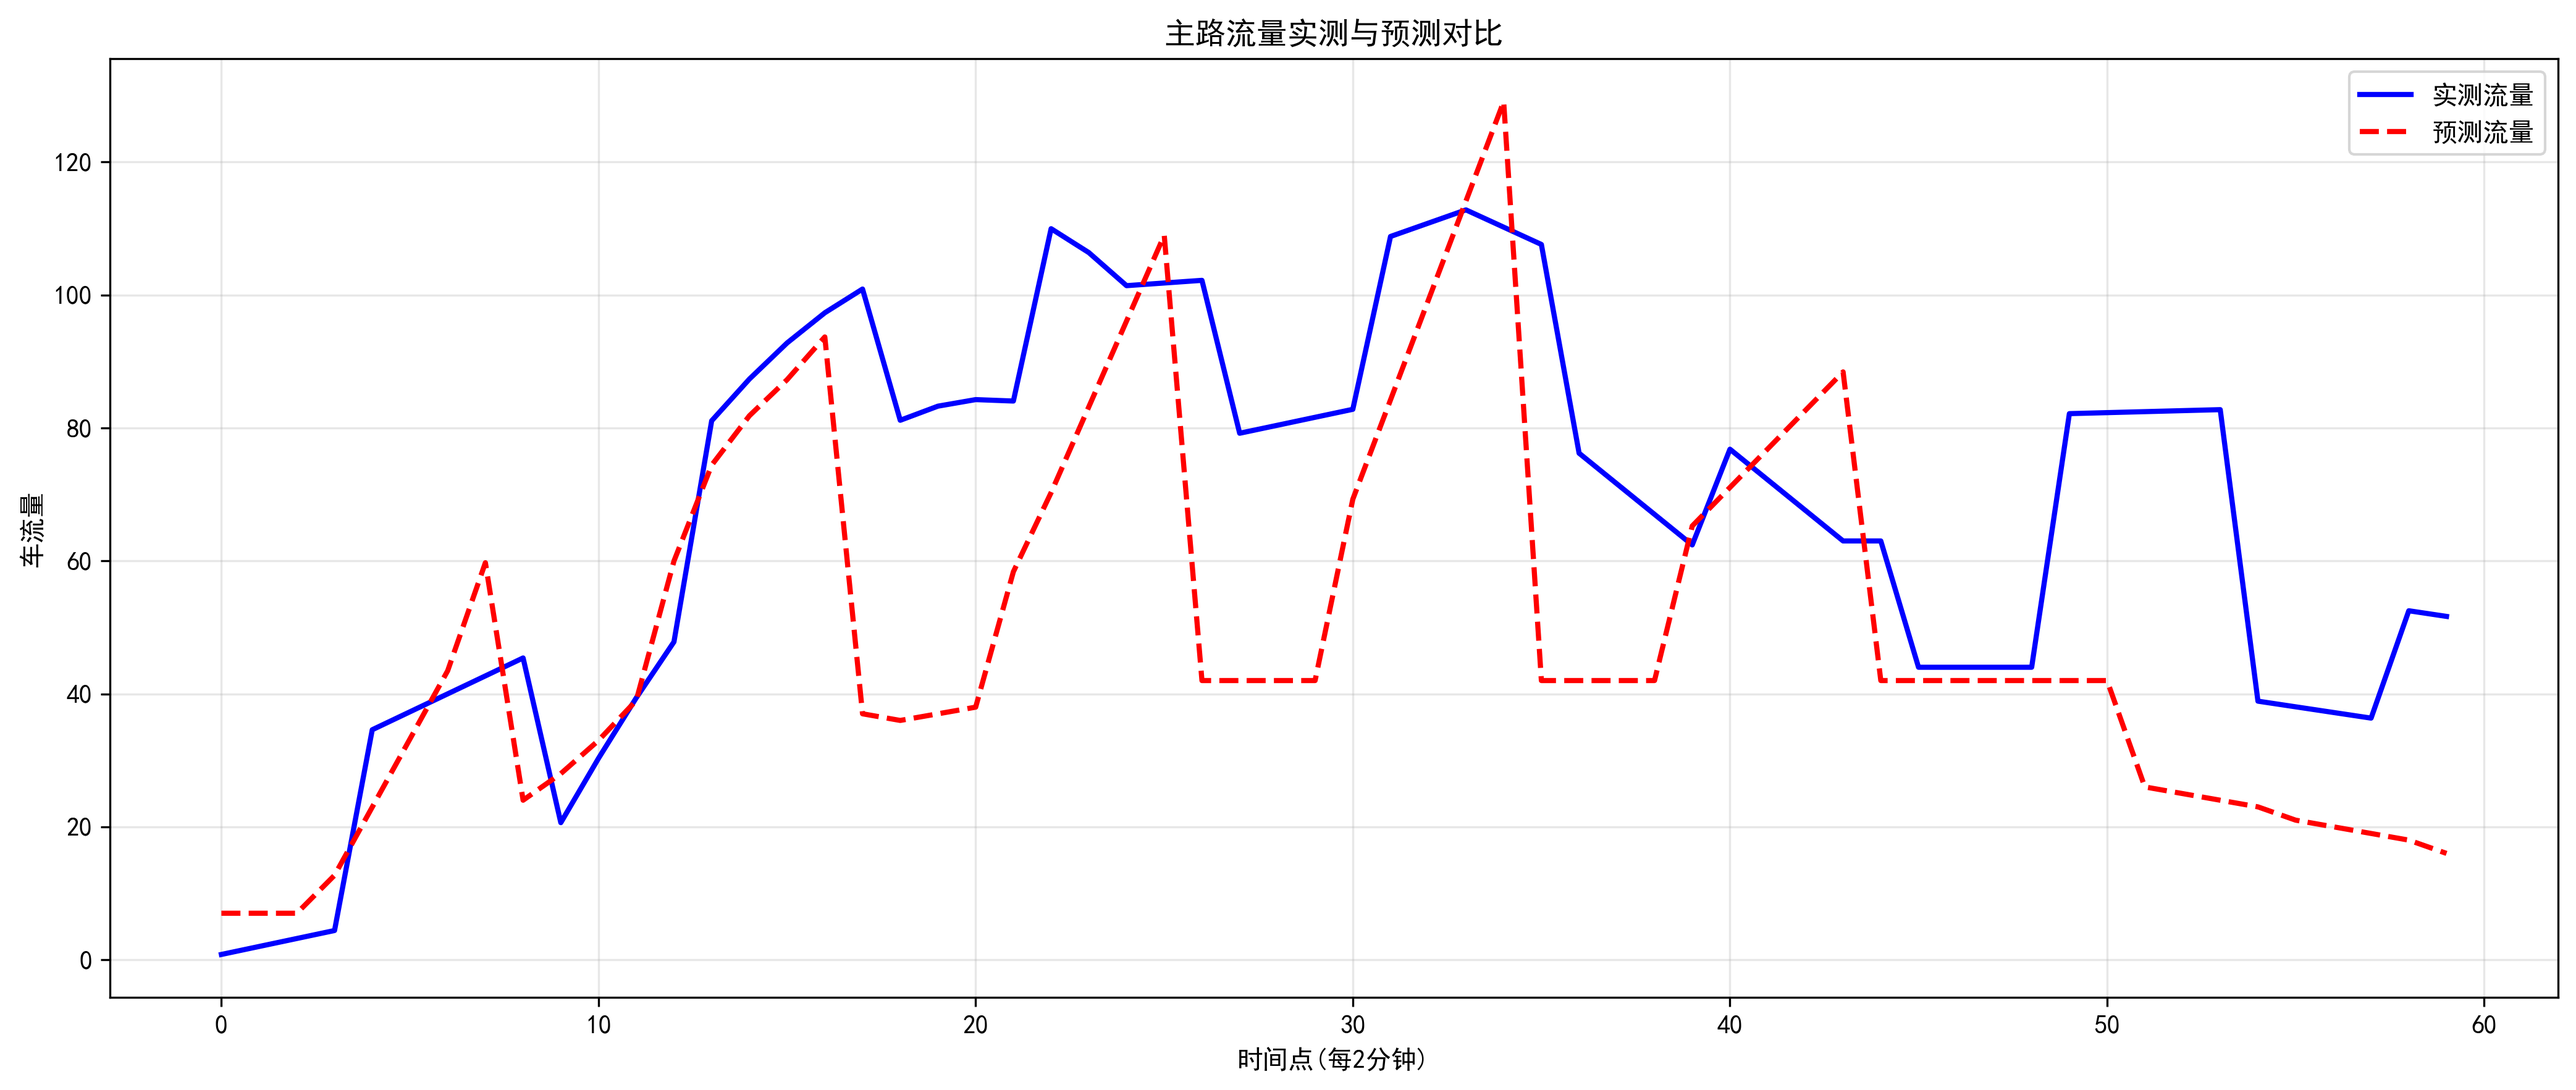
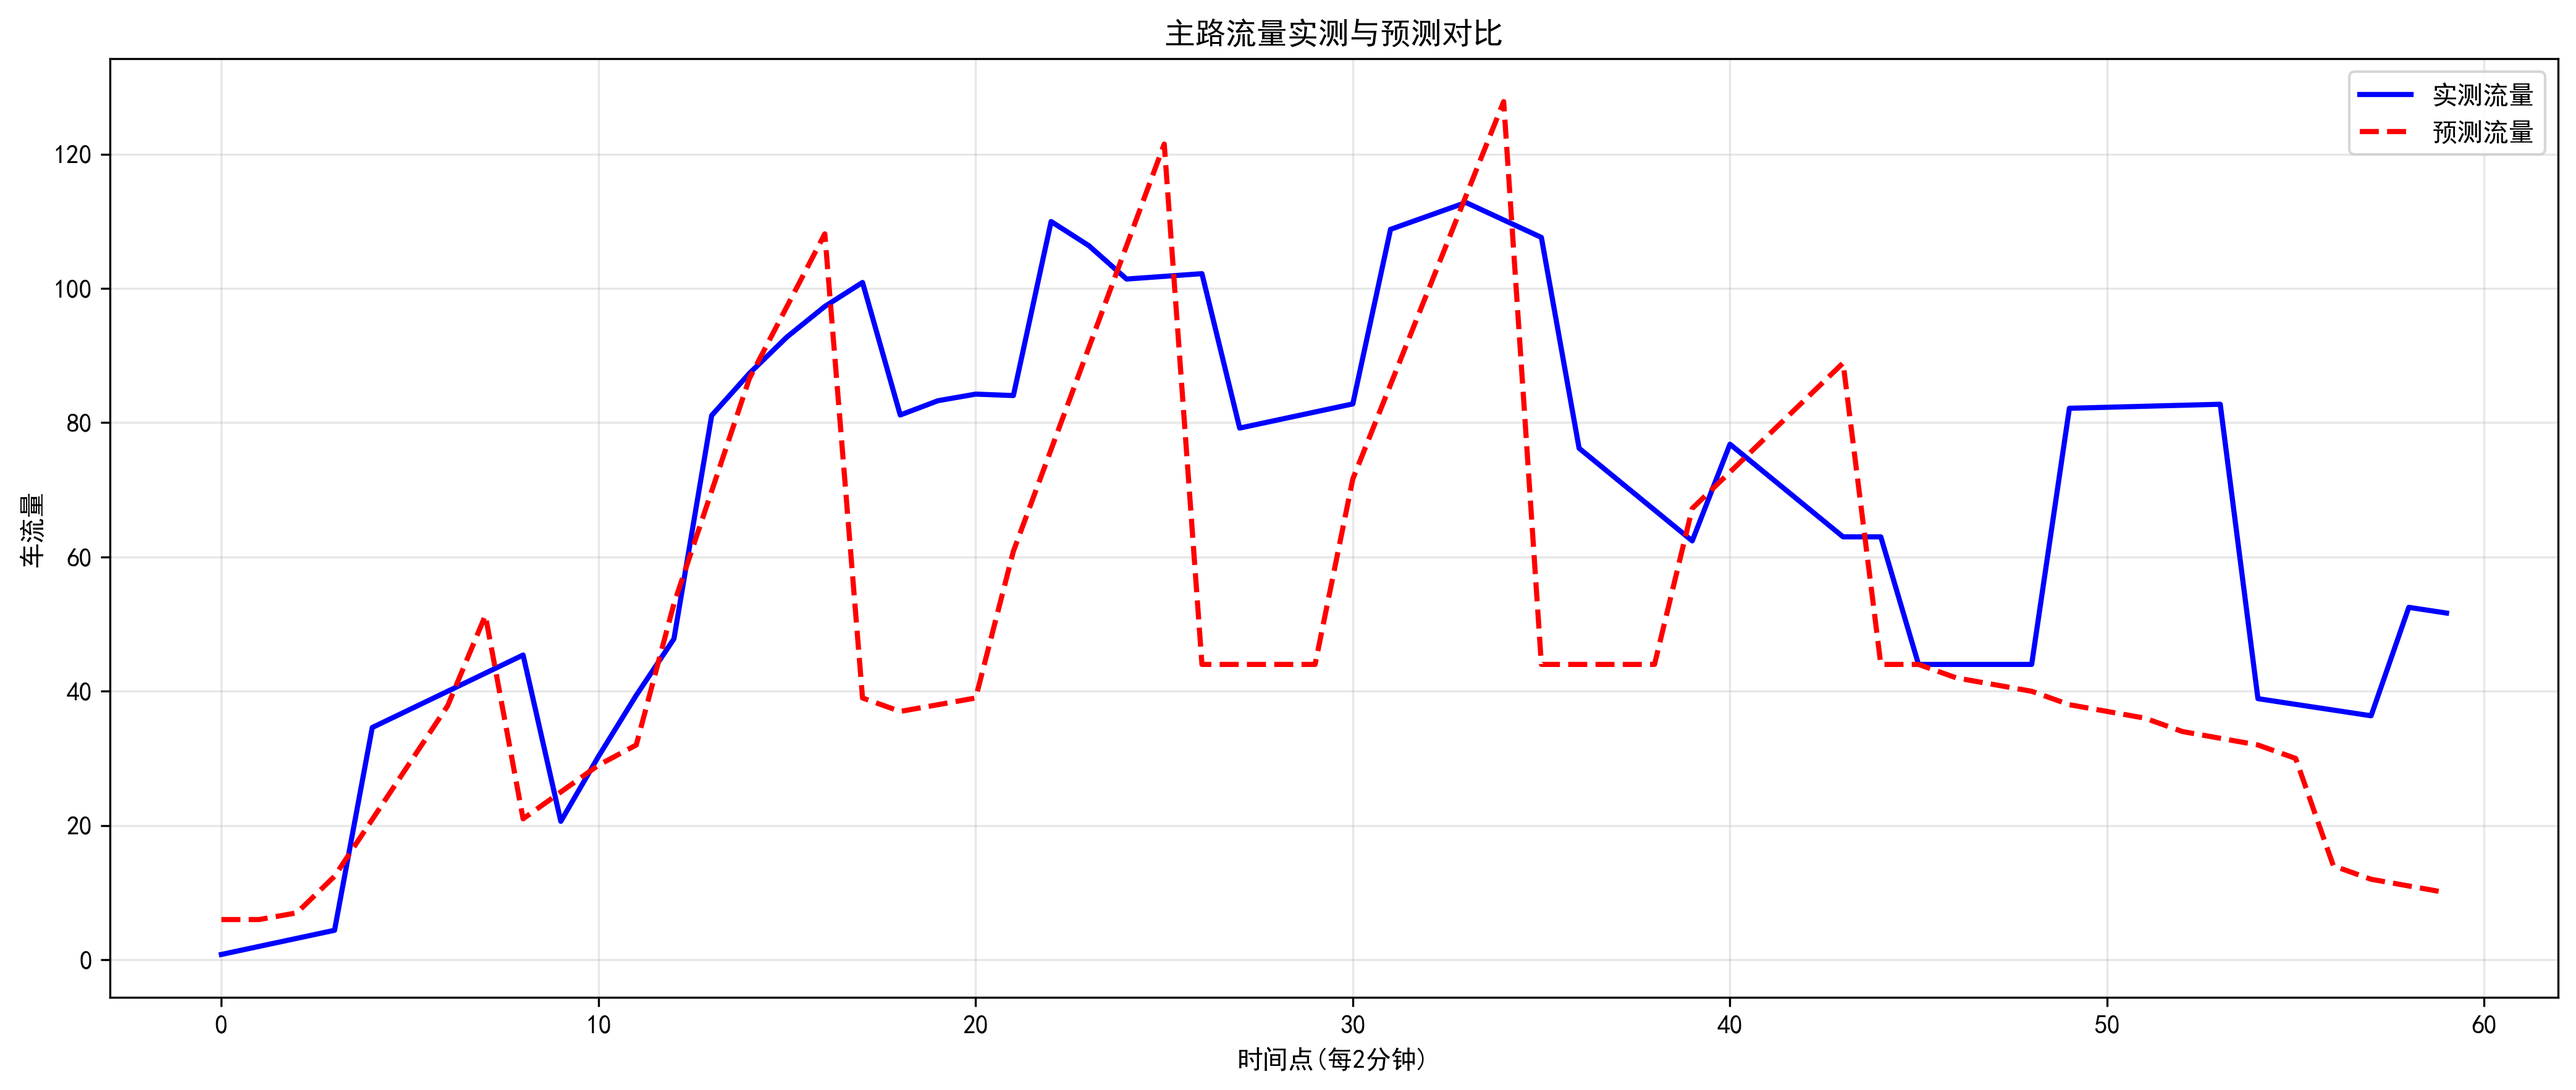
fix(p3.py): 修正支路1流量模型表达式中的格式错误
修复了支路1流量模型表达式中的转义字符错误，确保LaTeX格式正确渲染。同时更新了相关文档中的模型参数和误差评估结果。

diff --git a/51MCM/p3.py b/51MCM/p3.py
@@ -366,11 +366,11 @@ class TrafficAnalysisSystem:
             # 支路1流量模型表达式
             f.write("## 【支路1流量模型表达式】\n\n")
             f.write(r"$f_1(t) = \begin{cases} ")
-            f.write(f"0, & t < {a_params[6]:.1f} \\ ")
-            f.write(r"{a_params[0]:.4f} \cdot (t-{a_params[6]:.1f}) + {a_params[1]:.4f}, & {a_params[6]:.1f} \leq t < {a_params[7]:.1f} \\\\ ")
-            f.write(r"{a_params[2]:.4f} \cdot (t-{a_params[7]:.1f}) + {a_params[3]:.4f}, & {a_params[7]:.1f} \leq t < {a_params[8]:.1f} \\\\ ")
-            f.write(r"{a_params[4]:.4f}, & {a_params[8]:.1f} \leq t < {a_params[9]:.1f} \\\\ ")
-            f.write(r"{a_params[5]:.4f} \cdot (t-{a_params[9]:.1f}), & t \geq {a_params[9]:.1f} ")
+            f.write(f"0, & t < {a_params[6]:.1f} \\\\ ")
+            f.write(f"{a_params[0]:.4f} \\cdot (t-{a_params[6]:.1f}) + {a_params[1]:.4f}, & {a_params[6]:.1f} \\leq t < {a_params[7]:.1f} \\\\ ")
+            f.write(f"{a_params[2]:.4f} \\cdot (t-{a_params[7]:.1f}) + {a_params[3]:.4f}, & {a_params[7]:.1f} \\leq t < {a_params[8]:.1f} \\\\ ")
+            f.write(f"{a_params[4]:.4f}, & {a_params[8]:.1f} \\leq t < {a_params[9]:.1f} \\\\ ")
+            f.write(f"{a_params[5]:.4f} \\cdot (t-{a_params[9]:.1f}), & t \\geq {a_params[9]:.1f} ")
             f.write(r"\end{cases}$")
             f.write('\n\n')
 

diff --git a/51MCM/P3/交通流量分析报告.md b/51MCM/P3/交通流量分析报告.md
@@ -2,51 +2,51 @@
 
 ## 【模型误差评估】
 
-总体RMSE误差: 28.6165
+总体RMSE误差: 27.5510
 
 各时间段误差:
 
 | 时间段 | RMSE误差 |
 |--------|----------|
-| 7:00-7:30 | 9.2667 |
-| 7:30-8:00 | 36.6854 |
-| 8:00-8:30 | 24.5397 |
-| 8:30-8:58 | 33.4759 |
+| 7:00-7:30 | 9.0055 |
+| 7:30-8:00 | 35.2143 |
+| 8:00-8:30 | 23.4861 |
+| 8:30-8:58 | 32.3785 |
 
 ## 【支路1模型参数】
 
-增长阶段斜率: 4.3582
-初始值: 4.0490
-下降阶段斜率1: -4.0650
+增长阶段斜率: 2.7288
+初始值: 4.8571
+下降阶段斜率1: -2.4281
 稳定值: 15.0000
-下降阶段斜率2: -0.5513
-转折点: 5.4, 12.1, 16.7, 49.9
+下降阶段斜率2: -0.4898
+转折点: 5.6, 13.1, 17.3, 55.0
 
 ## 【支路2模型参数】
 
-增长斜率: 0.8463
-截距: 7.1006
-稳定值: 27.5838
-下降斜率: -1.2498
-终值: 27.5840
-转折点: 24.2, 49.3
+增长斜率: 0.9849
+截距: 6.2124
+稳定值: 29.3533
+下降斜率: -1.3546
+终值: 29.3537
+转折点: 23.5, 43.9
 
 ## 【支路3模型参数】
 
 支路3在红灯时段流量为0，在绿灯时段呈现线性变化
-绿灯周期1的斜率: 9.2548, 截距: 4.7093
-绿灯周期2的斜率: 9.4292, 截距: 15.9723
-绿灯周期3的斜率: 11.9020, 截距: 19.3697
-绿灯周期4的斜率: 14.9540, 截距: 27.2718
-绿灯周期5的斜率: 5.7945, 截距: 23.2519
+绿灯周期1的斜率: 7.4646, 截距: 4.4459
+绿灯周期2的斜率: 12.7720, 截距: 17.0432
+绿灯周期3的斜率: 14.1637, 截距: 20.8523
+绿灯周期4的斜率: 14.0521, 截距: 27.6213
+绿灯周期5的斜率: 5.4164, 截距: 23.2308
 
 ## 【支路1流量模型表达式】
 
-$f_1(t) = \begin{cases} 0, & t < 5.4 \ {a_params[0]:.4f} \cdot (t-{a_params[6]:.1f}) + {a_params[1]:.4f}, & {a_params[6]:.1f} \leq t < {a_params[7]:.1f} \\\\ {a_params[2]:.4f} \cdot (t-{a_params[7]:.1f}) + {a_params[3]:.4f}, & {a_params[7]:.1f} \leq t < {a_params[8]:.1f} \\\\ {a_params[4]:.4f}, & {a_params[8]:.1f} \leq t < {a_params[9]:.1f} \\\\ {a_params[5]:.4f} \cdot (t-{a_params[9]:.1f}), & t \geq {a_params[9]:.1f} \end{cases}$
+$f_1(t) = \begin{cases} 0, & t < 5.6 \\ 2.7288 \cdot (t-5.6) + 4.8571, & 5.6 \leq t < 13.1 \\ -2.4281 \cdot (t-13.1) + 25.1940, & 13.1 \leq t < 17.3 \\ 15.0000, & 17.3 \leq t < 55.0 \\ -0.4898 \cdot (t-55.0), & t \geq 55.0 \end{cases}$
 
 ## 【支路2流量模型表达式】
 
-$f_2(t) = \begin{cases} 0.8463 \cdot t + 7.1006, & t \leq 24.2 \\ 27.5838, & 24.2 < t \leq 49.3 \\ -1.2498 \cdot (t-49.3) + 27.5840, & t > 49.3 \end{cases}$
+$f_2(t) = \begin{cases} 0.9849 \cdot t + 6.2124, & t \leq 23.5 \\ 29.3533, & 23.5 < t \leq 43.9 \\ -1.3546 \cdot (t-43.9) + 29.3537, & t > 43.9 \end{cases}$
 
 ## 【支路3流量模型表达式】
 
@@ -56,5 +56,5 @@ $f_3(t) = \begin{cases} {slope:.4f} \cdot (t-{start}) + {intercept:.4f}, & t \in
 
 | 时间点 | 支路1 | 支路2 | 支路3 | 主路4(预测) | 主路4(实际) |
 |--------|-------|-------|-------|------------|------------|
-| 7:30 | 21.83 | 19.80 | 44.26 |    84.26 |    92.78 |
-| 8:30 | 15.00 | 27.58 |  0.00 |    42.00 |    44.00 |
+| 7:30 | 20.51 | 20.99 | 55.36 |    95.36 |    92.78 |
+| 8:30 | 15.00 | 27.90 |  0.00 |    42.00 |    44.00 |
